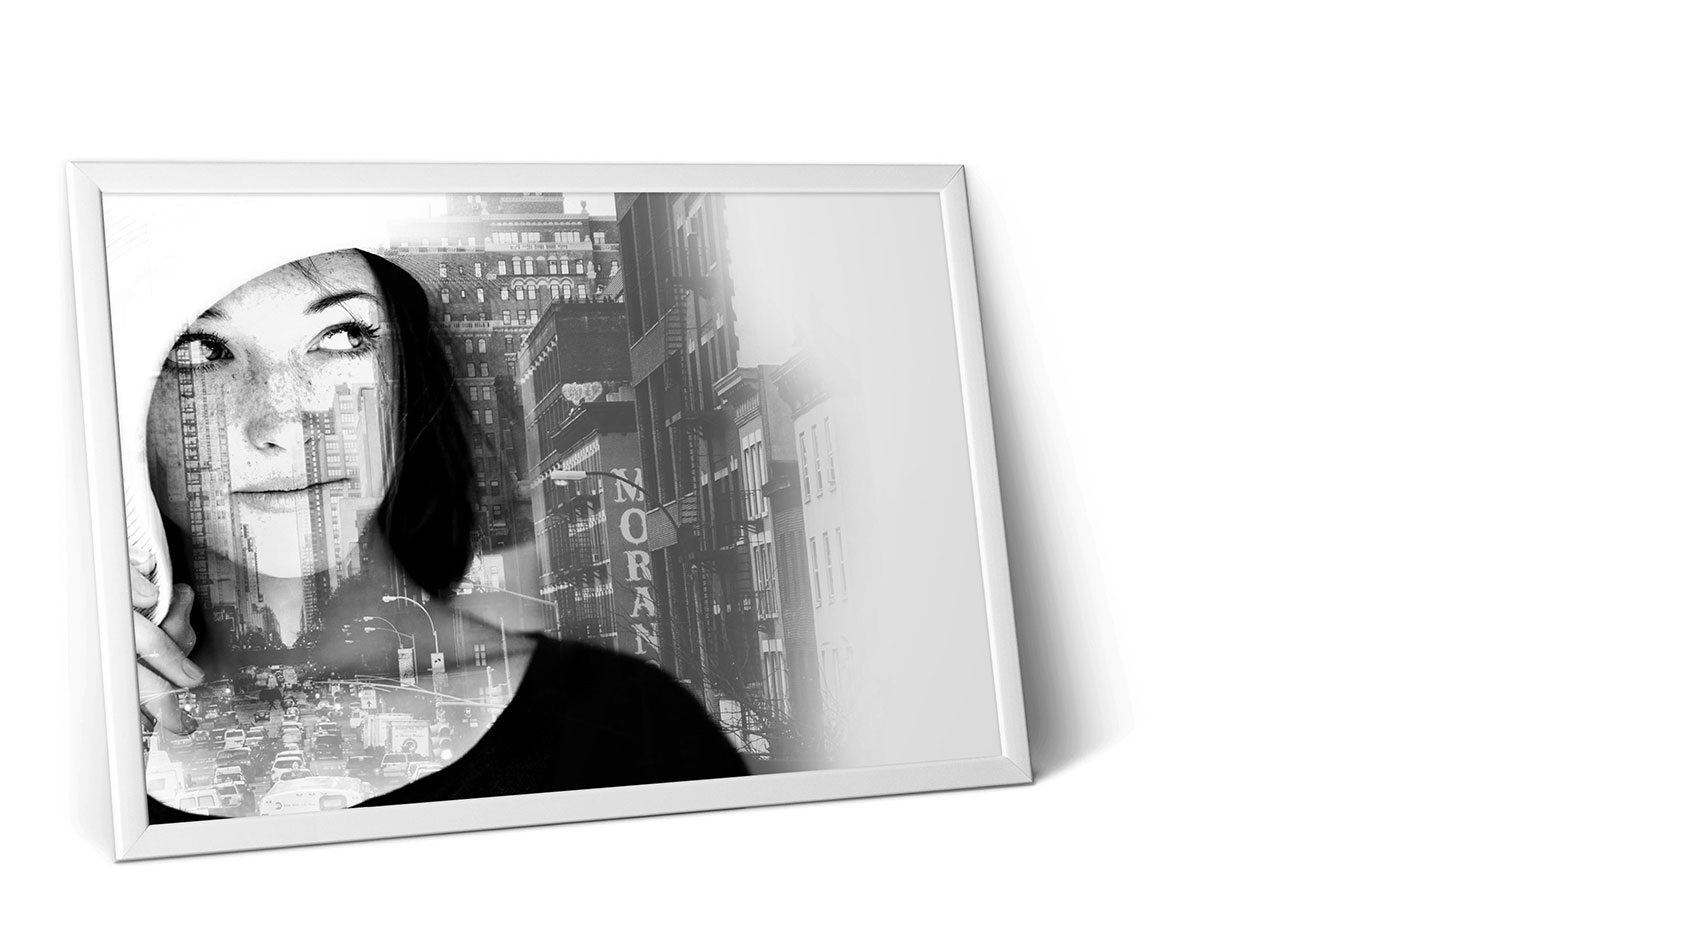
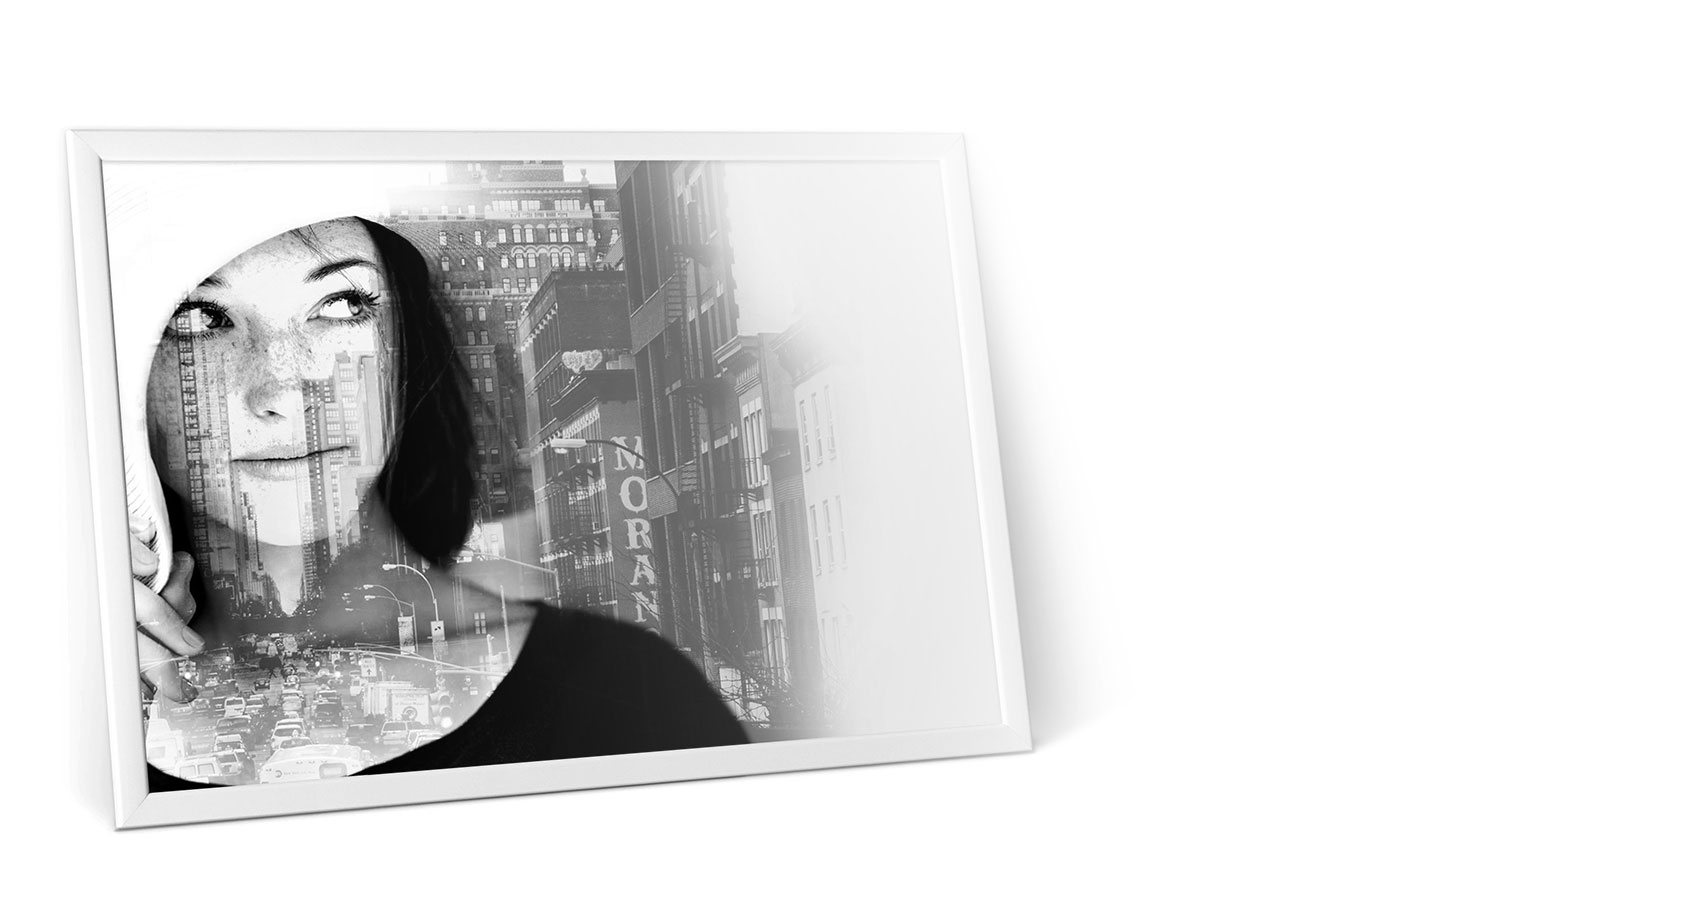
header bg correction

diff --git a/css/agency.css b/css/agency.css
@@ -92,7 +92,7 @@ header{
   width:100%;
   height:100%;
   z-index:10;
-  background:url('../img/header-bg3.jpg') #c0c0c0 bottom center fixed no-repeat;
+  background:url('../img/header-bg.jpg') #c0c0c0 bottom center fixed no-repeat;
   background-color: white;
   -webkit-background-size: cover;
   -moz-background-size: cover;
